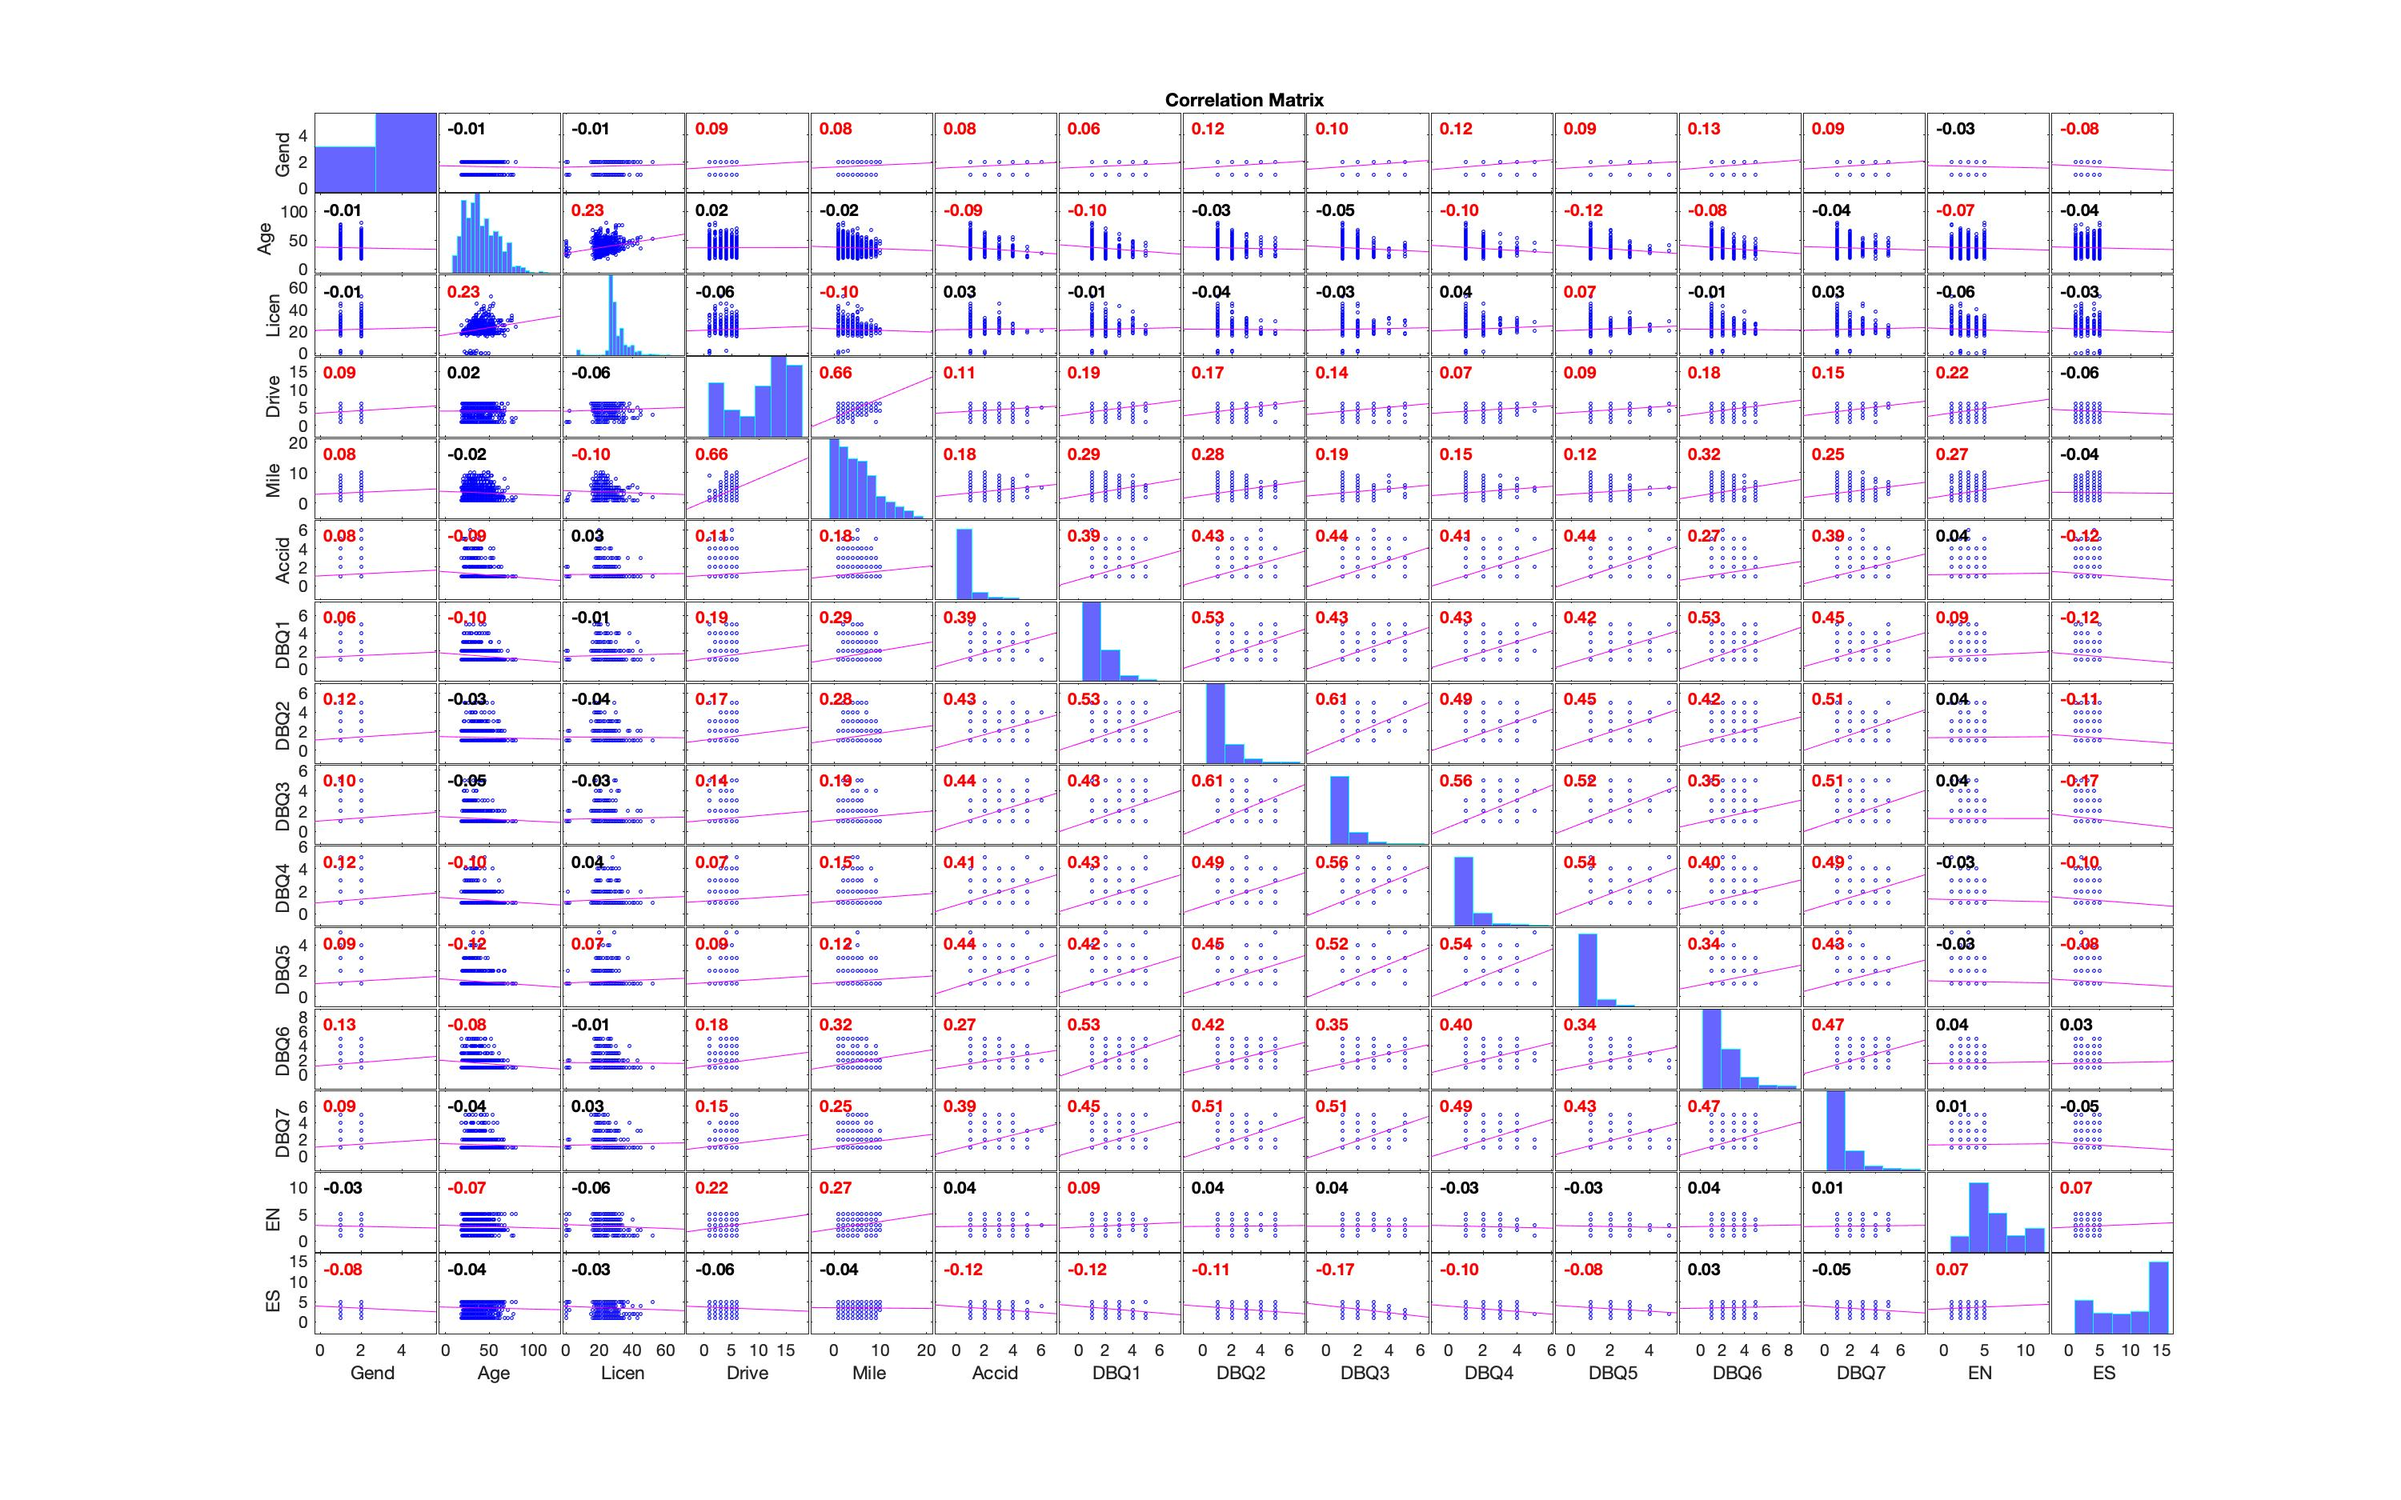
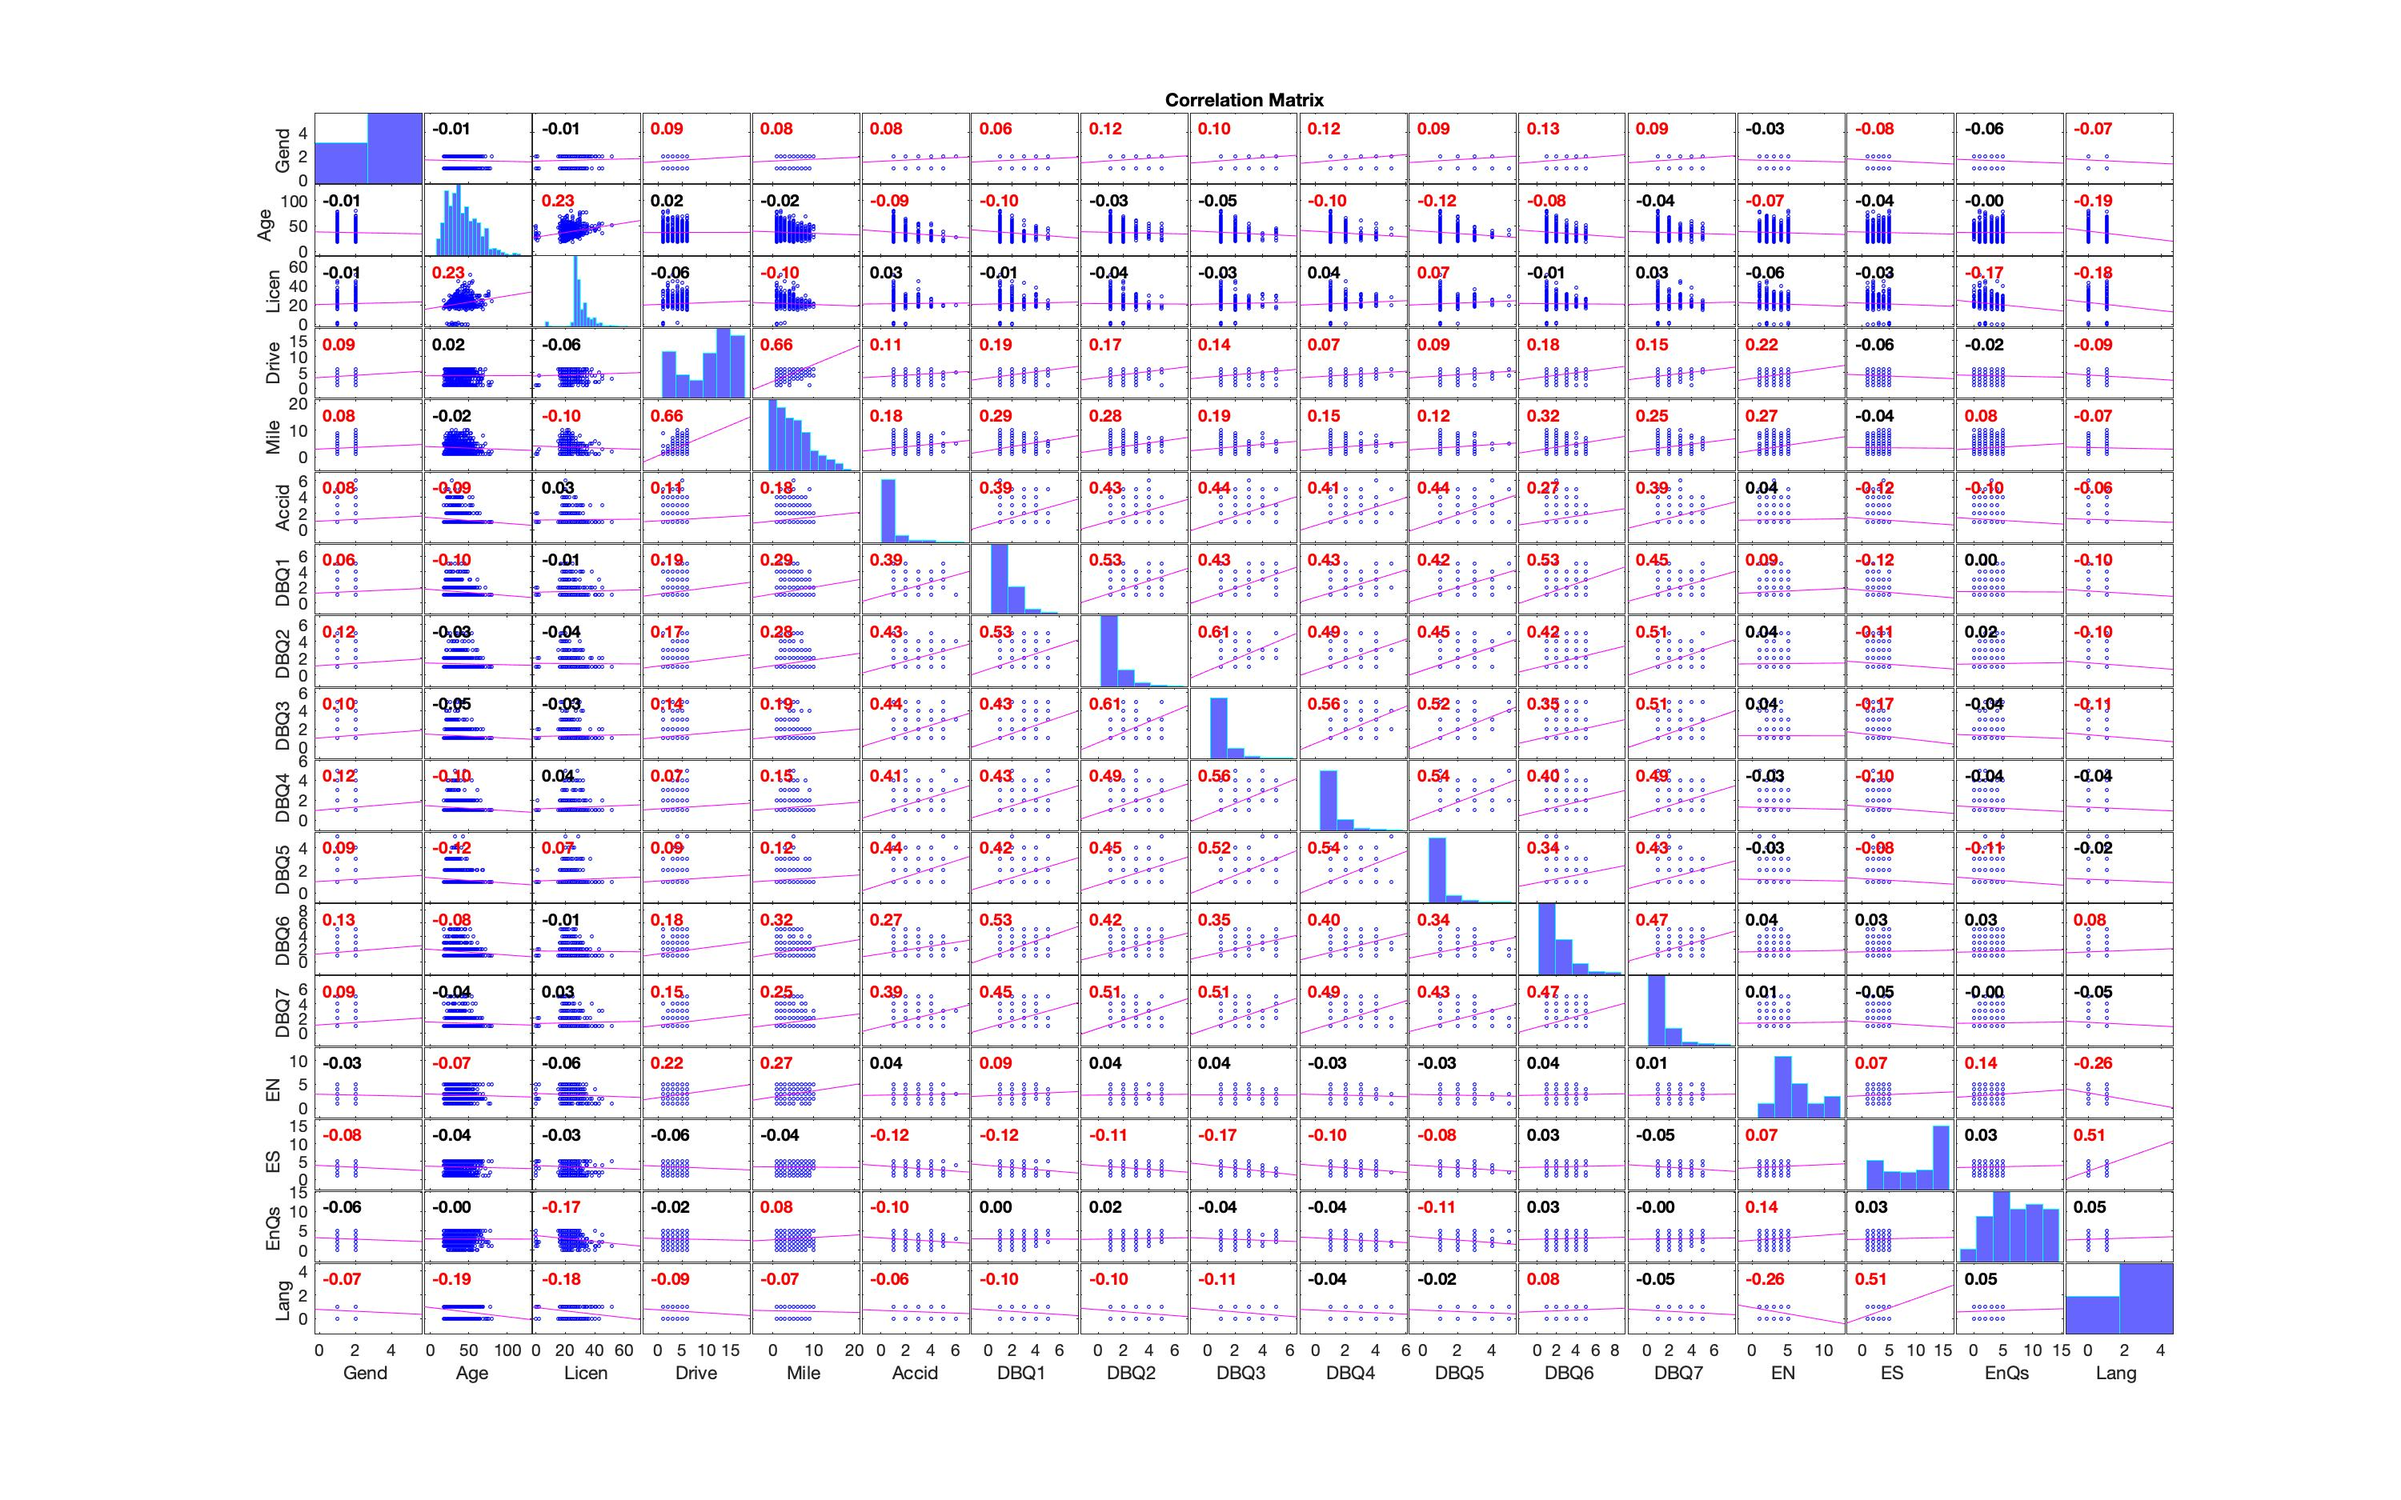
Updated figures and corr plot

Changed region(s): [[0.093, 0.0619, 0.899, 0.928]]

diff --git a/textehmi/analysis/analysis.m b/textehmi/analysis/analysis.m
@@ -58,13 +58,7 @@ appen_indices = [19,... % 1. Instructions understood
 %% Read mapping of eHMIs
 mapping = readtable(config.mapping);
 
-%% ************************************************************************
-%% OUTPUT
-%% ************************************************************************
-set(0, 'DefaultFigurePosition', [5 60  1920/2 1080/2]);
-opengl hardware
-
-%% Prepare data
+%% Prepare data for output
 RT = X(:, 27:106);       % time used to press the key
 RP = X(:, 107:186);      % response from the slider
 imageid = X(:,187:266);  % image ids as shown
@@ -120,17 +114,20 @@ ego=find(mapping{:,7}==1 & mapping{:,8}==0);
 allo=find(mapping{:,7}==0 & mapping{:,8}==1);
 other=find(~ismember(1:227, union(ego,allo)));
 
+%% ************************************************************************
+%% OUTPUT
+%% ************************************************************************
+set(0, 'DefaultFigurePosition', [5 60  1920/2 1080/2]);
+opengl hardware
+
 %% Figure 2. Multi-column barplot for crossing percentage
 [RPo_mean_sorted,RPO_mean_sorted_o]=sort(nanmean(RPo),'ascend');
-
+% prepare data
 cd=NaN(size(RPo,2),3);
 cd(ego,:)=repmat([0 .9 0], length(ego), 1);
 cd(allo,:)=repmat([0.8 0.8 0.8], length(allo), 1);
 cd(other,:)=repmat([1 .5 0], length(other), 1);
-
-%cd=nanmedian(RTo)-min(nanmedian(RTo));
-%cd=cd'./max(cd);
-%cd=[cd cd cd];
+% 1st column
 figure
 subplot(1,4,1)
 b=barh(RPo_mean_sorted(1:114),'facecolor','flat');
@@ -138,7 +135,6 @@ b.CData=cd(RPO_mean_sorted_o(1:114),:);
 for i=1:114
     text(1,i,eHMI_text{RPO_mean_sorted_o(i),:},'color','k','fontsize',6)
 end
-
 set(gca,'xlim',[0 85], ...
     'pos',[0.01 0.045 0.22 0.95], ...
     'yticklabel', {}, ...
@@ -146,14 +142,13 @@ set(gca,'xlim',[0 85], ...
     'ticklength', [0.005 0], ...
     'ydir', 'reverse')
 xlabel('Mean willingness to cross (%)')
-
+% 2nd column
 subplot(1,4,2)
 b=barh(RPo_mean_sorted(115:227),'facecolor',[.8 .8 .8],'facecolor','flat');
 b.CData=cd(RPO_mean_sorted_o(115:227),:);
 for i=115:227
     text(1,i-114,eHMI_text{RPO_mean_sorted_o(i),:},'color','k','fontsize',6)
 end
-
 set(gca,'xlim',[0 85], ...
     'pos',[0.24 0.045 0.22 0.95], ...
     'yticklabel', {}, ...
@@ -161,7 +156,6 @@ set(gca,'xlim',[0 85], ...
     'ticklength', [0.005 0], ...
     'ydir', 'reverse')
 xlabel('Mean willingness to cross (%)')
-
 % maximise and export as eps and jpg (for readme)
 if config.save_figures
     export_figure(gcf, [config.path_output filesep 'figures' ...
@@ -200,9 +194,9 @@ legend('Egocentric', 'Allocentric', 'Egocentric and allocentric', ...
 % maximise and export as eps and jpg (for readme)
 if config.save_figures
     export_figure(gcf, [config.path_output filesep 'figures' ...
-                        filesep 'median-cross-sd-cross'], 'epsc')
+                        filesep 'scatter-text-en-median'], 'epsc')
     export_figure(gcf, [config.path_figures ...
-                        filesep 'median-cross-sd-cross'], 'jpg')
+                        filesep 'scatter-text-en-median'], 'jpg')
 end
 
 %% Figure 4. Scatter plot for Spanish and corresponding English eHMI texts
@@ -441,6 +435,13 @@ set(gca, 'Fontsize', 20, ...
 t=table(eHMI_text(id(b),:),round(a(:,1),1),round(a(:,2),1),round(a(:,3),4));
 t.Properties.VariableNames={'eHMI','Mean (%)','SD (%)','Median RT (ms)'};
 disp(t)
+% maximise and export as eps and jpg (for readme)
+if config.save_figures
+    export_figure(gcf, [config.path_output filesep 'figures' filesep ...
+                        'scatter-text-en-mean'], 'epsc')
+    export_figure(gcf, [config.path_figures filesep ...
+                        'scatter-text-en-mean'], 'jpg')
+end
 
 %% Response time learning curve
 figure; hold on; grid on
@@ -540,7 +541,7 @@ end
 
 %% Correlation matrix and plot
 % fetch relevant columns from X for correlation matrix 
-CMATR = X(:,[2:4 6:17]);
+CMATR = [X(:,[2:4 6:17 23]) lang_es];
 % compute correlations
 [c_CMATR, p_CMATR] = corr(CMATR, 'type', 'spearman', 'rows', 'pairwise');
 % labels for output
@@ -558,7 +559,9 @@ labels = {'Gend', ...
           'DBQ6', ...
           'DBQ7', ...
           'EN', ...
-          'ES'};
+          'ES', ...
+          'EnQs', ...
+          'Lang'};
 % output of correlation matrix
 printmat(round(c_CMATR*100)/100, ...
          'Spearman correlation matrix', ...

diff --git a/README.md b/README.md
@@ -38,14 +38,11 @@ Data from appen is anonymised in the following way:
 ### Output
 Figures are saved in `text-crowdsourced/_output/figures`.
 
-![median willingness to sd willingness to cross](https://github.com/bazilinskyy/text-crowdsourced/blob/main/figures/median-cross-sd-cross.jpg?raw=true)
-Median willingness to cross over SD of willingness to cross. Colours denote the type of eHMIs: green=egocentric, black=allocentric, red=egocentric and allocentric.
+![mean willingness to cross on multiple columns](https://github.com/bazilinskyy/text-crowdsourced/blob/main/figures/mean-cross-multiple-columns.jpg?raw=true)
+Mean willingness to cross.
 
 ![ehmis in english and spanish](https://github.com/bazilinskyy/text-crowdsourced/blob/main/figures/median-cross-en-es.jpg?raw=true)
 Median willingness to cross for eHMIs presented in both English and Spanish.
-
-![mean willingness to cross on multiple columns](https://github.com/bazilinskyy/text-crowdsourced/blob/main/figures/mean-cross-multiple-columns.jpg?raw=true)
-Mean willingness to cross.
 
 ![median willingness to cross](https://github.com/bazilinskyy/text-crowdsourced/blob/main/figures/median-cross.jpg?raw=true)
 Median willingness to cross. Colours show stimuli that were presented in both English and Spanish.
@@ -55,6 +52,12 @@ Mean willingness to cross. Colours show stimuli that were presented in both Engl
 
 ![sd willingness to cross](https://github.com/bazilinskyy/text-crowdsourced/blob/main/figures/sd-cross.jpg?raw=true)
 Standard deviation of willingness to cross. Colours show stimuli that were presented in both English and Spanish.
+
+![median willingness to sd willingness to cross](https://github.com/bazilinskyy/text-crowdsourced/blob/main/figures/scatter-text-en-median.jpg?raw=true)
+Median willingness to cross over SD of willingness to cross of eHMIs in English. Colours denote the type of eHMIs: green=egocentric, black=allocentric, red=egocentric and allocentric.
+
+![mean willingness to sd willingness to cross](https://github.com/bazilinskyy/text-crowdsourced/blob/main/figures/scatter-text-en-mean.jpg?raw=true)
+Mean willingness to cross over SD of willingness to cross of eHMIs in English. Colours denote the type of eHMIs: green=egocentric, black=allocentric, red=egocentric and allocentric.
 
 ![response willingness to cross for usa and ven](https://github.com/bazilinskyy/text-crowdsourced/blob/main/figures/response-time-usa-ven.jpg?raw=true)
 Median response time for participants from USA and Venezuela.
